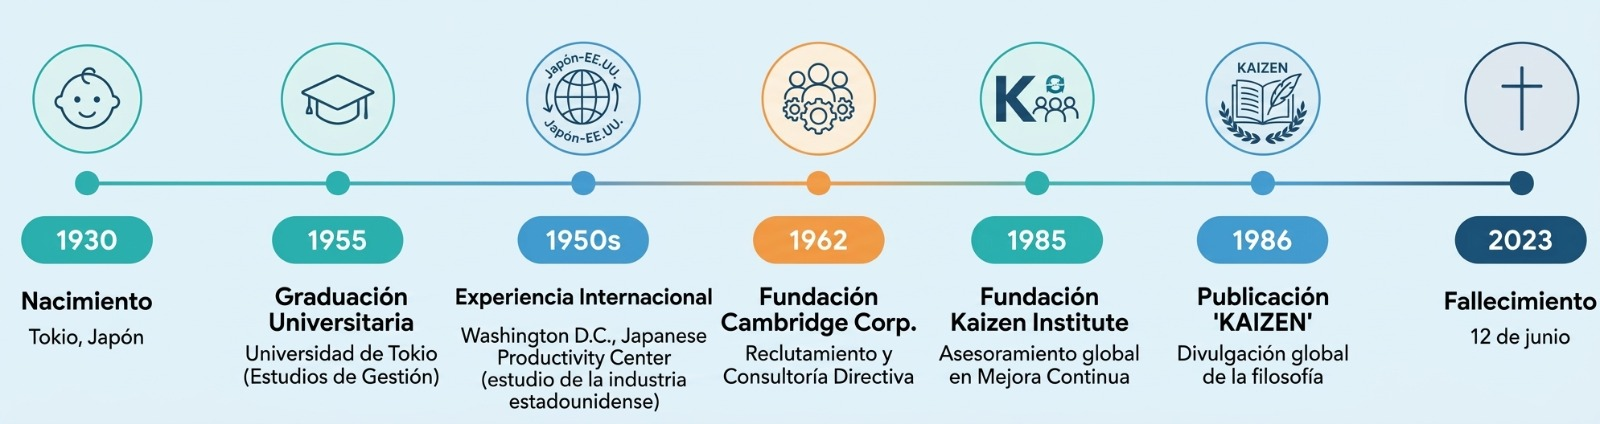
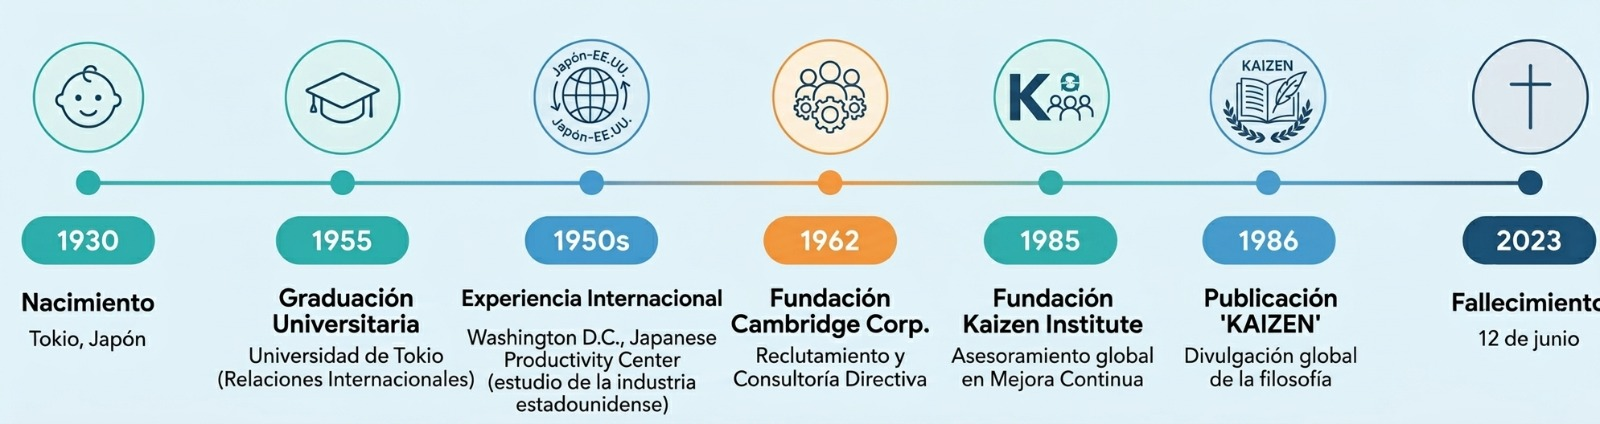
yaporfa

diff --git a/integrantes.html b/integrantes.html
@@ -3,11 +3,10 @@
 <head>
   <meta charset="UTF-8">
   <meta name="viewport" content="width=device-width, initial-scale=1.0">
-  <title>Integrantes del Equipo | Gestión de la Calidad</title>
-  <link rel="stylesheet" href="style.css">
-  
+  <title>Equipo de Trabajo | Gestión de la Calidad</title>
+
   <style>
-    /* Reset básico */
+    /* RESET Y ESTRUCTURA BASE */
     * {
       box-sizing: border-box;
       margin: 0;
@@ -17,105 +16,94 @@
     body {
       font-family: 'Segoe UI', system-ui, -apple-system, sans-serif;
       background-color: #f8fafc;
+      color: #0f172a;
+      line-height: 1.5;
+      min-height: 100vh;
+      display: flex;
+      flex-direction: column;
     }
 
-    /* HEADER ESTILO PRINCIPAL */
-    .header-hero {
-      background-color: #04244c; /* Azul marino institucional */
-      background-image: 
-        radial-gradient(circle at 90% 50%, rgba(255, 255, 255, 0.05) 0%, transparent 60%),
-        url("imagenes/logo-instituto.png"); /* Marca de agua tenue a la derecha */
-      background-repeat: no-repeat;
-      background-position: right 20px center;
-      background-size: auto, 260px;
+    /* ENCABEZADO INSTITUCIONAL */
+    .banner-equipo {
+      background-color: #04244c;
+      padding: 24px 60px 36px 60px;
       color: #ffffff;
-      padding: 24px 60px 40px 60px;
-      position: relative;
     }
 
-    /* Barra superior de logos y botón */
-    .header-top-bar {
+    .banner-fila-superior {
       display: flex;
       justify-content: space-between;
       align-items: center;
       padding-bottom: 20px;
-      border-bottom: 1px solid rgba(255, 255, 255, 0.2); /* Línea divisoria */
+      border-bottom: 1px solid rgba(255, 255, 255, 0.22);
     }
 
-    .logos-agrupados {
+    .logos-contenedor {
       display: flex;
       align-items: center;
-      gap: 28px;
+      gap: 20px;
     }
 
-    .logo-item {
-      height: 48px;
+    .logo-inst {
+      height: 46px;
       width: auto;
       object-fit: contain;
-      filter: brightness(0) invert(1); /* Vuelve blancos los logos si son oscuros */
     }
 
-    /* Si el logo de Educación ya tiene color vino/rojo y no quieres invertirlo */
-    .logo-item.color-original {
-      filter: none;
-    }
-
-    /* Botón ovalado estilo píldora como el de 'Integrantes' */
-    .btn-nav-outline {
+    .btn-regresar-inicio {
       display: inline-block;
-      padding: 8px 30px;
-      border: 1.5px solid rgba(255, 255, 255, 0.85);
-      border-radius: 30px;
-      color: #ffffff;
-      text-decoration: none;
-      font-weight: 600;
-      font-size: 1rem;
-      letter-spacing: 0.5px;
+      padding: 8px 32px;
       background: transparent;
+      color: #ffffff;
+      font-size: 0.95rem;
+      font-weight: 600;
+      text-decoration: none;
+      border: 1.5px solid rgba(255, 255, 255, 0.85);
+      border-radius: 50px;
       transition: all 0.2s ease;
     }
 
-    .btn-nav-outline:hover {
-      background: #ffffff;
+    .btn-regresar-inicio:hover {
+      background-color: #ffffff;
       color: #04244c;
     }
 
-    /* Títulos principales */
-    .header-content-hero {
-      margin-top: 35px;
+    .banner-titulos {
+      margin-top: 26px;
     }
 
-    .titulo-hero {
-      font-size: 2.8rem;
+    .titulo-banner {
+      font-size: 2.5rem;
       font-weight: 900;
-      letter-spacing: 1px;
+      letter-spacing: 1.5px;
       text-transform: uppercase;
       color: #ffffff;
+      margin-bottom: 6px;
       line-height: 1.1;
-      margin-bottom: 10px;
     }
 
-    .subtitulo-hero {
-      font-size: 1.15rem;
+    .subtitulo-banner {
+      font-size: 1.05rem;
       font-weight: 300;
       color: #cbd5e1;
     }
 
-    /* Contenedor de las tarjetas */
-    .contenedor-integrantes {
+    /* CUADRÍCULA DE TARJETAS */
+    .contenedor-equipo {
       max-width: 1200px;
-      margin: 50px auto 70px auto;
-      padding: 0 24px;
+      margin: 50px 0 70px 0; /* Quita el 'auto' que lo centra */
+      padding: 0 60px;       /* Ajusta el espacio al borde izquierdo */
+      flex: 1;
     }
 
-    .grid-integrantes {
+    .grid-tarjetas-alumnos {
       display: grid;
-      grid-template-columns: repeat(auto-fit, minmax(230px, 1fr));
+      grid-template-columns: repeat(auto-fill, minmax(230px, 1fr)); /* auto-fill evita que se estiren al inicio */
       gap: 28px;
-      justify-content: center;
+      justify-content: start; /* Alinea las columnas hacia la izquierda */
     }
 
-    .tarjeta-integrante {
+    .card-alumno {
       background: #ffffff;
       border: 1px solid #e2e8f0;
       border-radius: 16px;
@@ -128,28 +116,23 @@
       align-items: center;
     }
 
-    .tarjeta-integrante:hover {
+    .card-alumno:hover {
       transform: translateY(-6px);
-      box-shadow: 0 12px 20px -3px rgba(4, 36, 76, 0.15);
-      border-color: #cbd5e1;
+      box-shadow: 0 12px 24px -4px rgba(4, 36, 76, 0.15);
+      border-color: #bfdbfe;
     }
 
-    .avatar-wrapper {
+    .foto-perfil-alumno {
       width: 140px;
       height: 140px;
-      margin-bottom: 18px;
-    }
-
-    .tarjeta-integrante img {
-      width: 100%;
-      height: 100%;
       border-radius: 50%;
       object-fit: cover;
       border: 3.5px solid #04244c;
       background-color: #f1f5f9;
+      margin-bottom: 18px;
     }
 
-    .tarjeta-integrante h3 {
+    .nombre-alumno {
       font-size: 1.05rem;
       color: #0f172a;
       font-weight: 700;
@@ -161,7 +144,7 @@
       justify-content: center;
     }
 
-    .badge-control {
+    .pildora-nc {
       display: inline-block;
       background: #eff6ff;
       color: #04244c;
@@ -172,21 +155,31 @@
       border: 1px solid #bfdbfe;
     }
 
-    /* Adaptación para pantallas móviles */
+    /* FOOTER INSTITUCIONAL */
+    .footer-institucional {
+      background-color: #04244c;
+      color: #93c5fd;
+      text-align: center;
+      padding: 22px 20px;
+      font-size: 0.88rem;
+      letter-spacing: 0.4px;
+      border-top: 1px solid rgba(255, 255, 255, 0.1);
+    }
+
+    /* ADAPTACIÓN MÓVIL */
     @media (max-width: 768px) {
-      .header-hero {
-        padding: 20px;
-        background-position: right -60px center;
+      .banner-equipo {
+        padding: 20px 24px;
       }
-      .titulo-hero {
-        font-size: 2rem;
-      }
-      .header-top-bar {
+      .banner-fila-superior {
         flex-direction: column;
         gap: 16px;
         align-items: flex-start;
       }
-      .btn-nav-outline {
+      .titulo-banner {
+        font-size: 1.9rem;
+      }
+      .btn-regresar-inicio {
         align-self: flex-start;
       }
     }
@@ -194,72 +187,63 @@
 </head>
 <body>
 
-  <!-- ENCABEZADO IDÉNTICO AL PRINCIPAL -->
-  <header class="header-hero">
-    <div class="header-top-bar">
-      <div class="logos-agrupados">
-        <!-- Reemplaza o ajusta las rutas según los nombres exactos de tus logos -->
-        <img src="imagenes/logo-tecnm.png" alt="TecNM" class="logo-item">
-        <img src="imagenes/logo-sep.png" alt="Educación SEP" class="logo-item color-original">
-        <img src="imagenes/logo-instituto.png" alt="Escuela" class="logo-item color-original">
+  <!-- ENCABEZADO -->
+  <header class="banner-equipo">
+    <div class="banner-fila-superior">
+      <div class="logos-contenedor">
+        <img src="imagenes/logo-tecnm.png" alt="TecNM" class="logo-inst">
+        <img src="imagenes/logo-sep.png" alt="SEP" class="logo-inst">
       </div>
-      
-      <!-- Botón de retorno a la página principal con el mismo estilo del botón 'Integrantes' -->
-      <a href="index.html" class="btn-nav-outline">Inicio</a>
+      <a href="index.html" class="btn-regresar-inicio">Inicio</a>
     </div>
 
-    <div class="header-content-hero">
-      <h1 class="titulo-hero">EQUIPO DE TRABAJO</h1>
-      <p class="subtitulo-hero">Estudiantes de la materia Gestión de los Sistemas de Calidad</p>
+    <div class="banner-titulos">
+      <h1 class="titulo-banner">EQUIPO DE TRABAJO</h1>
+      <p class="subtitulo-banner">Estudiantes de la materia Gestión de los Sistemas de Calidad</p>
     </div>
   </header>
 
-  <!-- LISTA DE INTEGRANTES -->
-  <main class="contenedor-integrantes">
-    <div class="grid-integrantes">
+  <!-- TARJETAS -->
+  <main class="contenedor-equipo">
+    <div class="grid-tarjetas-alumnos">
       
-      <div class="tarjeta-integrante">
-        <div class="avatar-wrapper">
-          <img src="imagenes/ary.jpeg" alt="Calderón Sánchez Aryana" onerror="this.src='https://ui-avatars.com/api/?name=Aryana+Calderon&background=04244c&color=fff'">
-        </div>
-        <h3>Calderón Sánchez Aryana</h3>
-        <span class="badge-control">No. Control: 23070967</span>
+      <div class="card-alumno">
+        <img src="imagenes/ary.jpeg" alt="Calderón Sánchez Aryana" class="foto-perfil-alumno" onerror="this.src='https://ui-avatars.com/api/?name=Aryana+Calderon&background=04244c&color=fff'">
+        <h3 class="nombre-alumno">Calderón Sánchez Aryana</h3>
+        <span class="pildora-nc">No. Control: 23070967</span>
       </div>
 
-      <div class="tarjeta-integrante">
-        <div class="avatar-wrapper">
-          <img src="imagenes/Miroslava.jpeg" alt="Nava Zavala Miroslava" onerror="this.src='https://ui-avatars.com/api/?name=Miroslava+Nava&background=04244c&color=fff'">
-        </div>
-        <h3>Nava Zavala Miroslava</h3>
-        <span class="badge-control">No. Control: 23071133</span>
+      <div class="card-alumno">
+        <img src="imagenes/Miroslava.jpeg" alt="Nava Zavala Miroslava" class="foto-perfil-alumno" onerror="this.src='https://ui-avatars.com/api/?name=Miroslava+Nava&background=04244c&color=fff'">
+        <h3 class="nombre-alumno">Nava Zavala Miroslava</h3>
+        <span class="pildora-nc">No. Control: 23071133</span>
       </div>
 
-      <div class="tarjeta-integrante">
-        <div class="avatar-wrapper">
-          <img src="imagenes/Itzel.jpeg" alt="González Bautista Itzel Amairany" onerror="this.src='https://ui-avatars.com/api/?name=Itzel+Gonzalez&background=04244c&color=fff'">
-        </div>
-        <h3>González Bautista Itzel Amairany</h3>
-        <span class="badge-control">No. Control: 23071024</span>
+      <div class="card-alumno">
+        <img src="imagenes/Itzel.jpeg" alt="González Bautista Itzel Amairany" class="foto-perfil-alumno" onerror="this.src='https://ui-avatars.com/api/?name=Itzel+Gonzalez&background=04244c&color=fff'">
+        <h3 class="nombre-alumno">González Bautista Itzel Amairany</h3>
+        <span class="pildora-nc">No. Control: 23071024</span>
       </div>
 
-      <div class="tarjeta-integrante">
-        <div class="avatar-wrapper">
-          <img src="imagenes/Ariadna.jpeg" alt="Gómez Garza Ariadna Nefertiti" onerror="this.src='https://ui-avatars.com/api/?name=Ariadna+Gomez&background=04244c&color=fff'">
-        </div>
-        <h3>Gómez Garza Ariadna Nefertiti</h3>
-        <span class="badge-control">No. Control: 23071013</span>
+      <div class="card-alumno">
+        <img src="imagenes/Ariadna.jpeg" alt="Gómez Garza Ariadna Nefertiti" class="foto-perfil-alumno" onerror="this.src='https://ui-avatars.com/api/?name=Ariadna+Gomez&background=04244c&color=fff'">
+        <h3 class="nombre-alumno">Gómez Garza Ariadna Nefertiti</h3>
+        <span class="pildora-nc">No. Control: 23071013</span>
       </div>
 
-      <div class="tarjeta-integrante">
-        <div class="avatar-wrapper">
-          <img src="imagenes/Victor.jpeg" alt="Medellín Delgado Victor Jeovanni" onerror="this.src='https://ui-avatars.com/api/?name=Victor+Medellin&background=04244c&color=fff'">
-        </div>
-        <h3>Medellín Delgado Victor Jeovanni</h3>
-        <span class="badge-control">No. Control: 23071640</span>
+      <div class="card-alumno">
+        <img src="imagenes/Victor.jpeg" alt="Medellín Delgado Victor Jeovanni" class="foto-perfil-alumno" onerror="this.src='https://ui-avatars.com/api/?name=Victor+Medellin&background=04244c&color=fff'">
+        <h3 class="nombre-alumno">Medellín Delgado Victor Jeovanni</h3>
+        <span class="pildora-nc">No. Control: 23071640</span>
       </div>
 
     </div>
   </main>
+
+  <!-- PIE DE PÁGINA INSTITUCIONAL -->
+  <footer class="footer-institucional">
+    © 2026 | Tecnológico Nacional de México
+  </footer>
 
 </body>
 </html>

diff --git a/script.js b/script.js
@@ -281,7 +281,7 @@ const personajes = [
     imgPremios: "imagenes/Robert M. Pirsig/White Modern Project Timeline Flyer (4).jpeg",
     imgLinea: "imagenes/Robert M. Pirsig/White Modern Project Timeline Flyer (2).jpeg",
     imgEsquema: "imagenes/Robert M. Pirsig/White Modern Project Timeline Flyer (3).jpeg",
-    contexto: "El surgimiento de la filosofía de Peter Senge a finales de los años 80 y principios de los 90 representó un cambio de paradigma radical en la historia de la Gestión de la Calidad. Su propuesta no nació en el vacío, sino como una respuesta directa al agotamiento de los métodos de control técnico y a la necesidad de dotar a las empresas de una visión humana y adaptativa ante la globalización. .",
+    contexto: "Durante la segunda mitad del siglo XX, Pirsig reflexionó sobre la relación entre las personas, la tecnología, los valores y la búsqueda de la excelencia. Sus ideas cuestionaron la separación estricta entre los aspectos técnicos y humanos de las actividades, proponiendo una visión más amplia de la calidad.",
     obras: [
       "<strong>Zen and the Art of Motorcycle Maintenance (1974):</strong> Es su obra más conocida. Combina el relato de un viaje en motocicleta con reflexiones filosóficas sobre la tecnología, los valores, la racionalidad y el concepto de Calidad.",
       "<strong>Lila: An Inquiry into Morals (1991):</strong> Obra en la que profundizó en sus ideas filosóficas y desarrolló con mayor amplitud su teoría sobre los valores y los patrones de evolución."
@@ -304,7 +304,7 @@ const personajes = [
     imgPremios: "imagenes/Peter Senge/White Modern Project Timeline Flyer (4).jpeg",
     imgLinea: "imagenes/Peter Senge/White Modern Project Timeline Flyer (2).jpeg",
     imgEsquema: "imagenes/Peter Senge/White Modern Project Timeline Flyer (3).jpeg",
-    contexto: "El surgimiento de la filosofía de Peter Senge a finales de los años 80 y principios de los 90 representó un cambio de paradigma radical en la historia de la Gestión de la Calidad. Su propuesta no nació en el vacío, sino como una respuesta directa al agotamiento de los métodos de control técnico y a la necesidad de dotar a las empresas de una visión humana y adaptativa ante la globalización.",
+    contexto: "Senge demostró que en un mundo globalizado los esquemas de mando rígido fracasaban porque trataban los problemas de forma aislada, en lugar de comprenderlos como sistemas interconectados.",
     obras: [
       "<strong>La Quinta Disciplina (1990):</strong> Considerada su obra maestra orientada a la calidad estructural.",
       "<strong>La Quinta Disciplina en la Práctica (1994):</strong> Es el manual operativo indispensable para la implementación de la calidad en los procesos de trabajo.",

diff --git a/index.html b/index.html
@@ -58,7 +58,7 @@
         </div>
       </div>
       <div class="timeline-nodo nodo-naranja">
-        <img src="imagenes/Joseph M. Juran/Joseph Juran.png Juran.png" alt="Juran" class="nodo-avatar">
+        <img src="imagenes/Joseph M. Juran/ Juran.png" alt="Juran" class="nodo-avatar">
         <div class="nodo-info">
           <span class="nodo-anio">1950-60</span>
           <span class="nodo-nombre">Juran</span>
